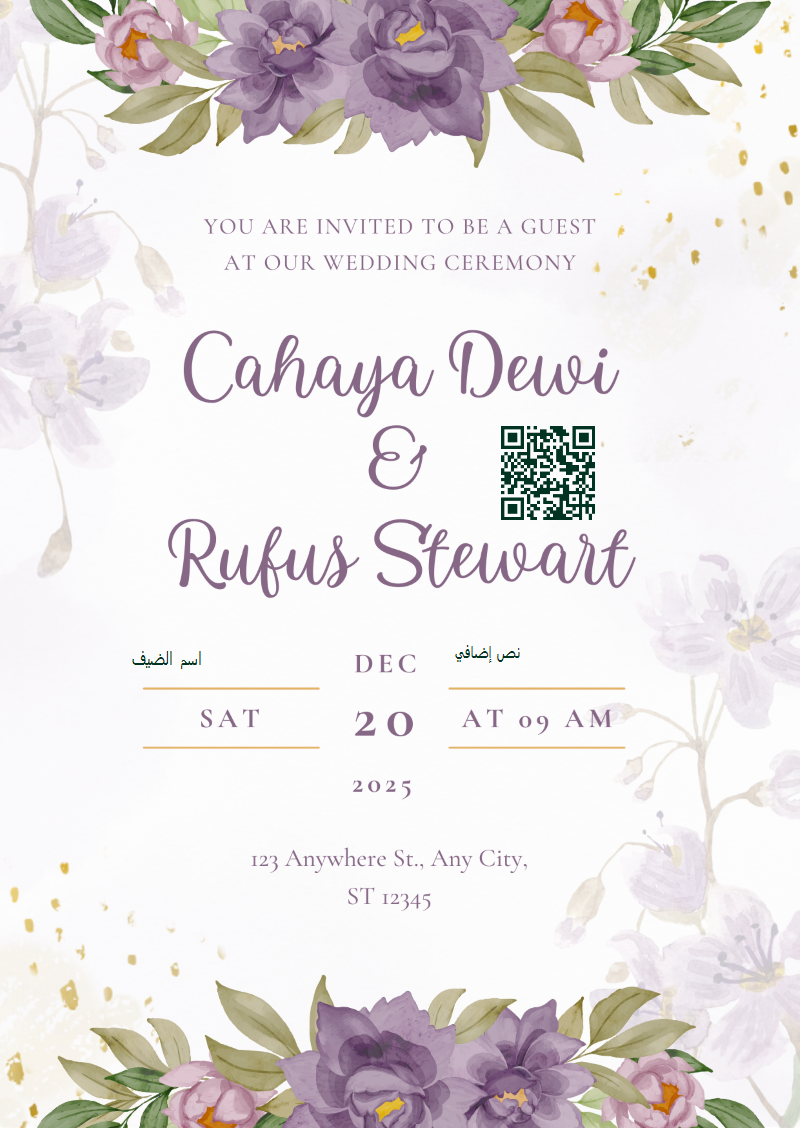
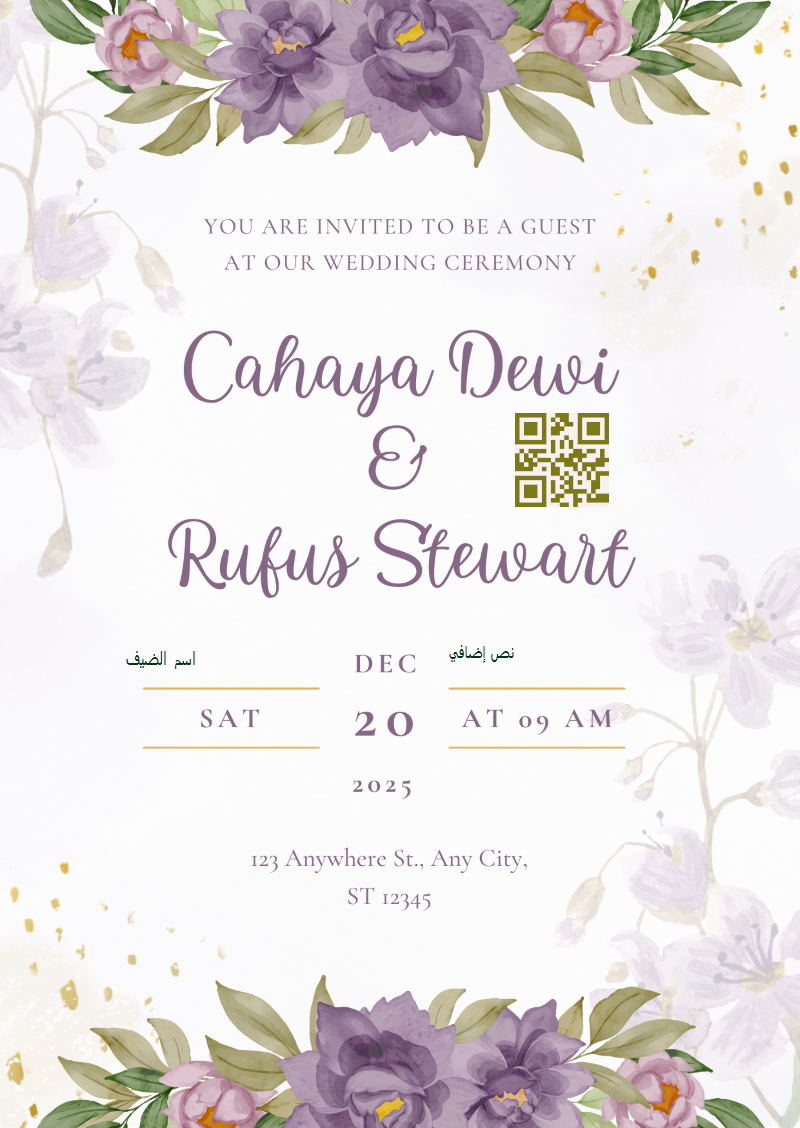
handel preview of invitaion card updated when user change his card

Changed region(s): [[0.625, 0.3413, 0.7812, 0.4654], [0.5625, 0.5585, 0.6562, 0.5895], [0.1562, 0.5585, 0.25, 0.5895]]

diff --git a/EventPro.Web/Controllers/Admin/QRSettings.cs b/EventPro.Web/Controllers/Admin/QRSettings.cs
@@ -200,7 +200,8 @@ namespace EventPro.Web.Controllers
 
             // Ali hani // Store the QR code URL in the card info
             card.BarcodeColorCode = qrCodeUrl;
-
+            db.CardInfo.Update(card);
+            await db.SaveChangesAsync();
             qrCodeImage.Dispose();
             SetBreadcrum("QR Settings", "/admin");
 
